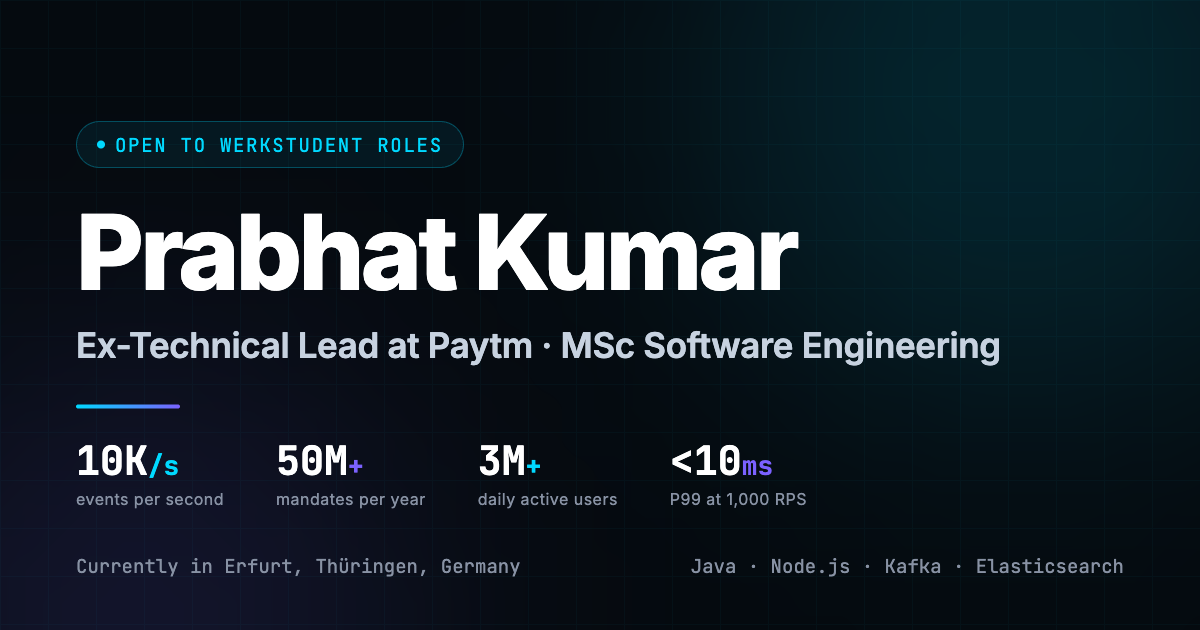
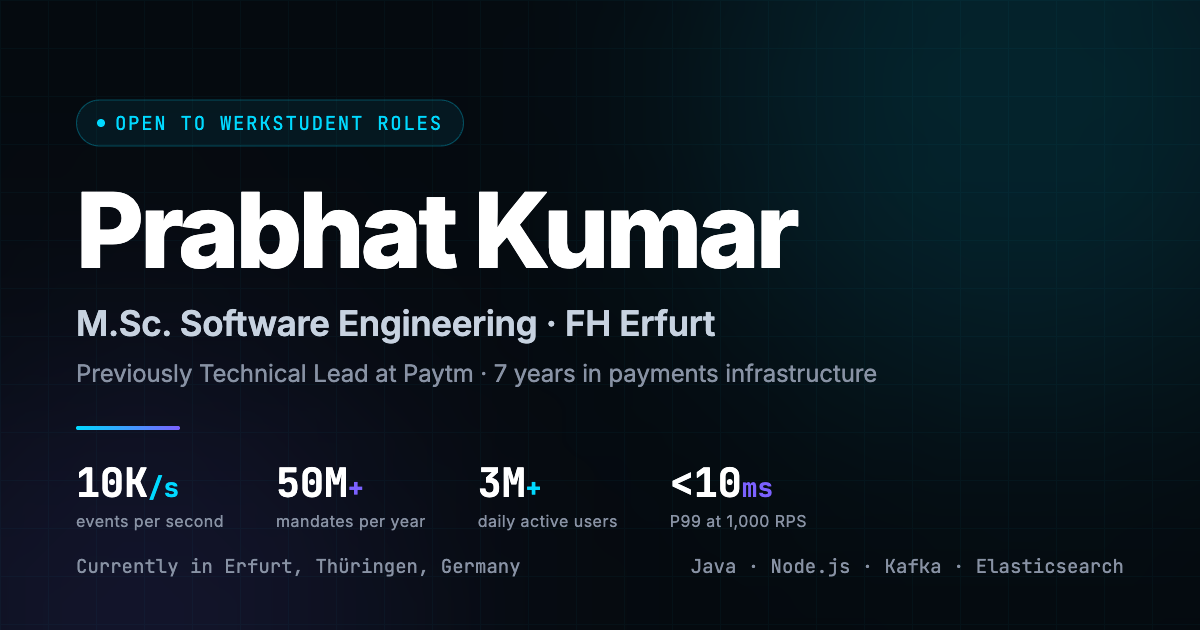
Split hero subtitle into current study and prior role
One line carrying both facts forced them to compete. Two lines give a
now-then reading and let each carry more detail.

- "M.Sc." rather than "MSc": the German convention, and the audience is
  German employers
- Name the institution as "FH Erfurt", how it is referred to locally, and
  verifiable in a way "MSc Software Engineering" alone was not
- "Previously Technical Lead at Paytm" reads better than "Ex-Technical
  Lead", and there is now room to add the 7 years in payments
  infrastructure that the single line had no space for
- Second line is smaller and dimmer so the two read as a hierarchy rather
  than two competing titles
- OG image updated to match

Checked at 1440px and 390px; both lines wrap cleanly on mobile.

diff --git a/src/components/sections/Hero.tsx b/src/components/sections/Hero.tsx
@@ -128,16 +128,22 @@ export function Hero() {
           ))}
         </motion.h1>
 
-        {/* Subtitle */}
-        <motion.p
+        {/* Subtitle: what I am now, then what I did before */}
+        <motion.div
           custom={0.8}
           variants={fadeUp}
           initial="hidden"
           animate="visible"
-          className="mt-4 text-lg md:text-xl text-[#8892A4] font-medium"
+          className="mt-4"
         >
-          Ex-Technical Lead at Paytm · MSc Software Engineering
-        </motion.p>
+          <p className="text-lg md:text-xl text-white/85 font-medium">
+            M.Sc. Software Engineering <span className="text-[#8892A4]">·</span> FH Erfurt
+          </p>
+          <p className="mt-1.5 text-sm md:text-base text-[#8892A4]">
+            Previously Technical Lead at Paytm{' '}
+            <span className="text-[#8892A4]/50">·</span> 7 years in payments infrastructure
+          </p>
+        </motion.div>
 
         {/* Typewriter stat line */}
         <motion.div
